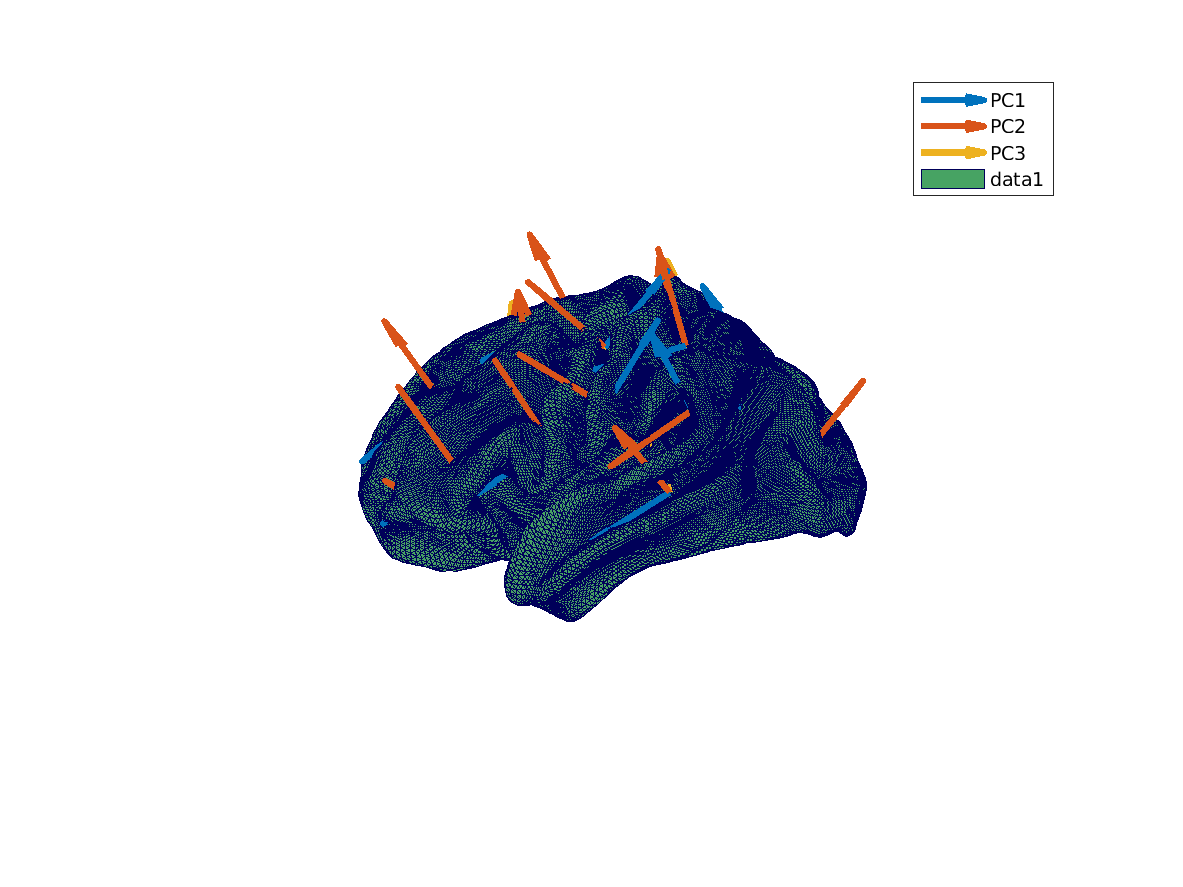
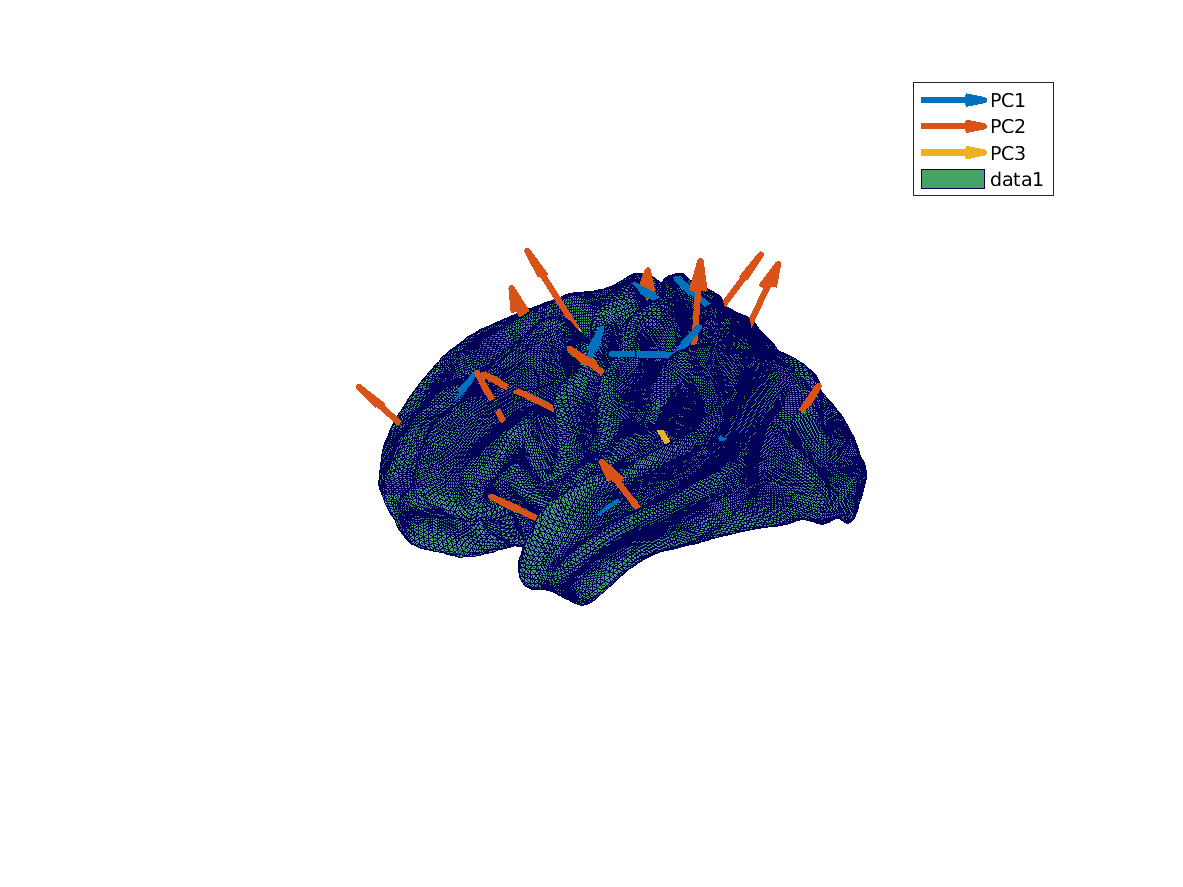
Updated Clusters Means PCA
Former-commit-id: 79f0cc8811558136ea5dc23174f404f84d634bb1

Changed region(s): [[0.3043, 0.274, 0.7303, 0.7001]]

diff --git a/matlab/hierarchicalClusteringDemo.m b/matlab/hierarchicalClusteringDemo.m
@@ -301,14 +301,14 @@ save([RESULTS_DIR, selection 'Phenotype.mat'], 'clusterVec','clusterPCAPhenoFeat
 
 localBehaviors = zeros(length(clusters),3, 3);
 for i=1:length(clusters)
-    localBehaviors(i,:, :) = pca(squeeze(features(clusters(i), :, :))', 'NumComponents',3);
+    localBehaviors(i,:, :) = pca(squeeze(means(clusters(i), :, :))', 'NumComponents',3);
 end
 fig = figure;
 ax = gca;
 hold on
-quiver3(ax, centers(:,1), centers(:,2), centers(:,3), localBehaviors(:, 1, 1), localBehaviors(:, 2, 1), localBehaviors(:,3,1), 'LineWidth', 3);
-quiver3(ax, centers(:,1), centers(:,2), centers(:,3), localBehaviors(:, 1, 2), localBehaviors(:, 2, 2), localBehaviors(:,3,2), 'LineWidth', 3);
-quiver3(ax, centers(:,1), centers(:,2), centers(:,3), localBehaviors(:, 1, 3), localBehaviors(:, 2, 3), localBehaviors(:,3,3), 'LineWidth', 3);
+quiver3(ax, templateCenters(:,1), templateCenters(:,2), templateCenters(:,3), localBehaviors(:, 1, 1), localBehaviors(:, 2, 1), localBehaviors(:,3,1), 'LineWidth', 3);
+quiver3(ax, templateCenters(:,1), templateCenters(:,2), templateCenters(:,3), localBehaviors(:, 1, 2), localBehaviors(:, 2, 2), localBehaviors(:,3,2), 'LineWidth', 3);
+quiver3(ax, templateCenters(:,1), templateCenters(:,2), templateCenters(:,3), localBehaviors(:, 1, 3), localBehaviors(:, 2, 3), localBehaviors(:,3,3), 'LineWidth', 3);
 legend('PC1', 'PC2', 'PC3');
 hold off
 brainShape = clone(template);
@@ -325,12 +325,6 @@ saveas(fig, [RESULTS_DIR 'clusterPCA_' selection '_interior.png']);
 view(-90, 0)
 saveas(fig, [RESULTS_DIR 'clusterPCA_' selection '_exterior.png']);
 
-
-
-%%
-feats = reshape(features, [], nSamples);
-phenoT = table(preprocPhenoIID, preprocPhenoIID, round(feats'*1000)/1000); %familyID,individualID,Phenotypes (to be controlled with mpheno argument)
-writetable(phenoT,[RESULTS_DIR  selection '_pheno.txt'],'WriteVariableNames',false,'Delimiter',' ');
 
 %%
 
